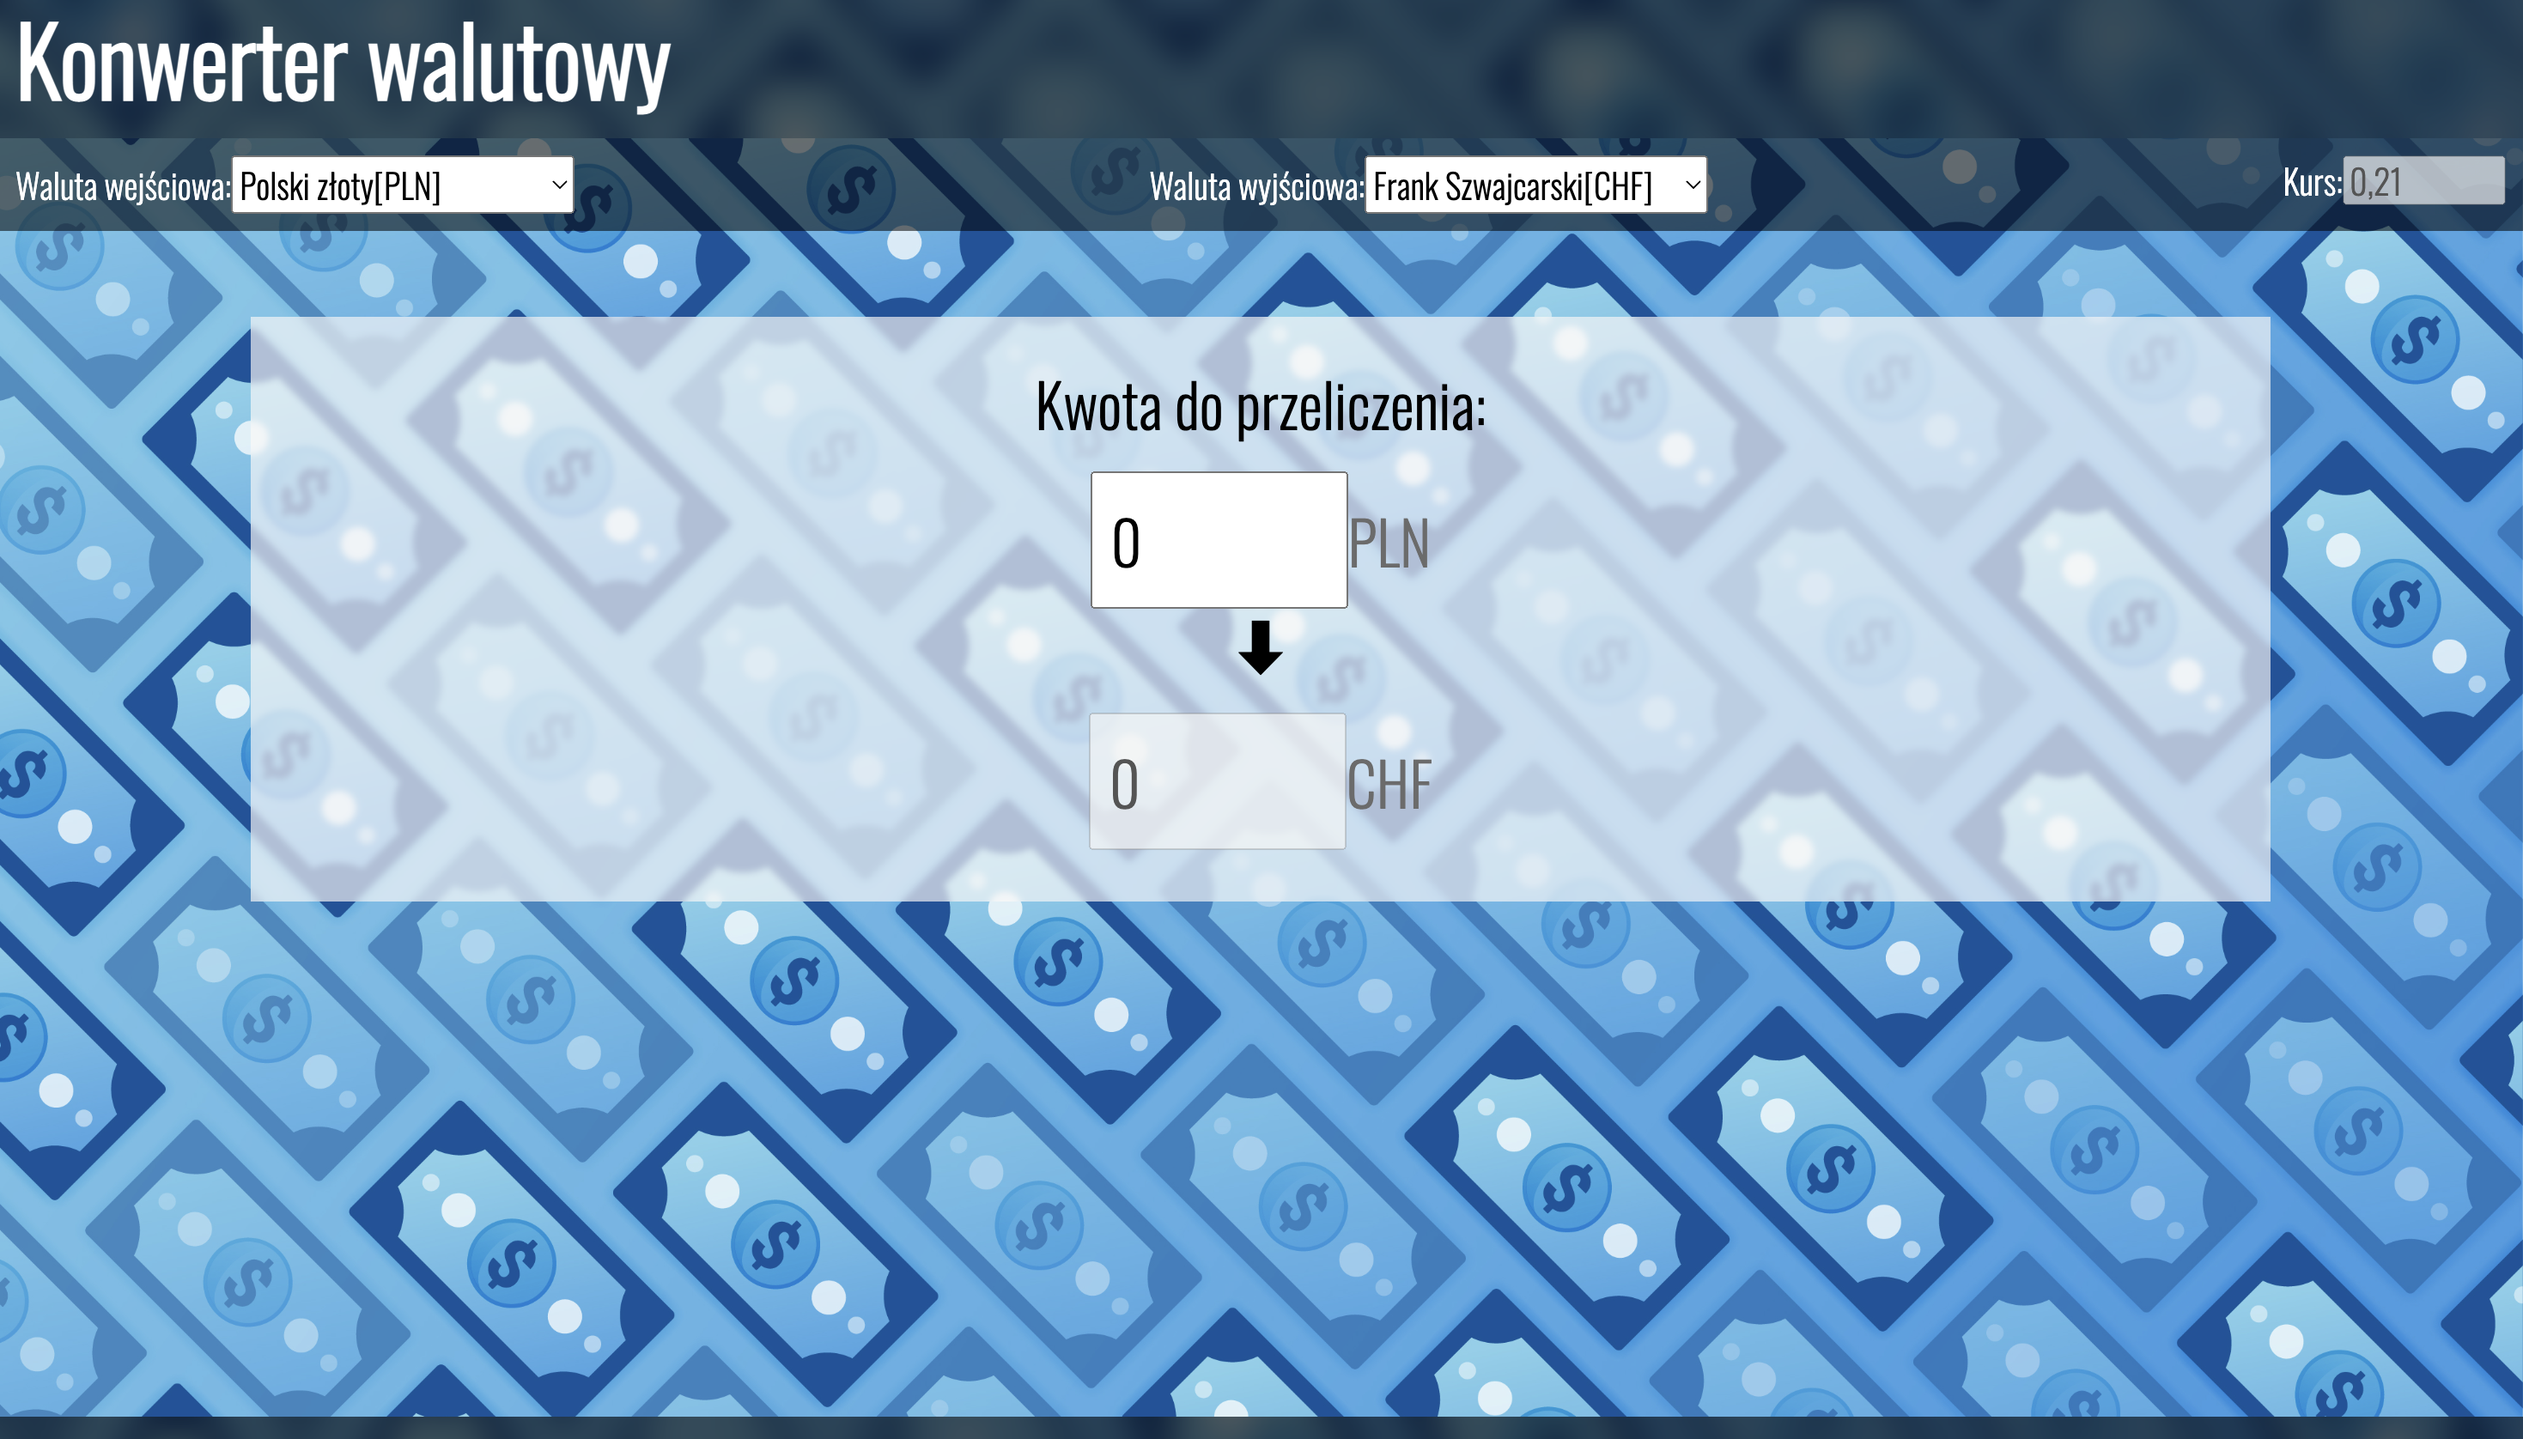
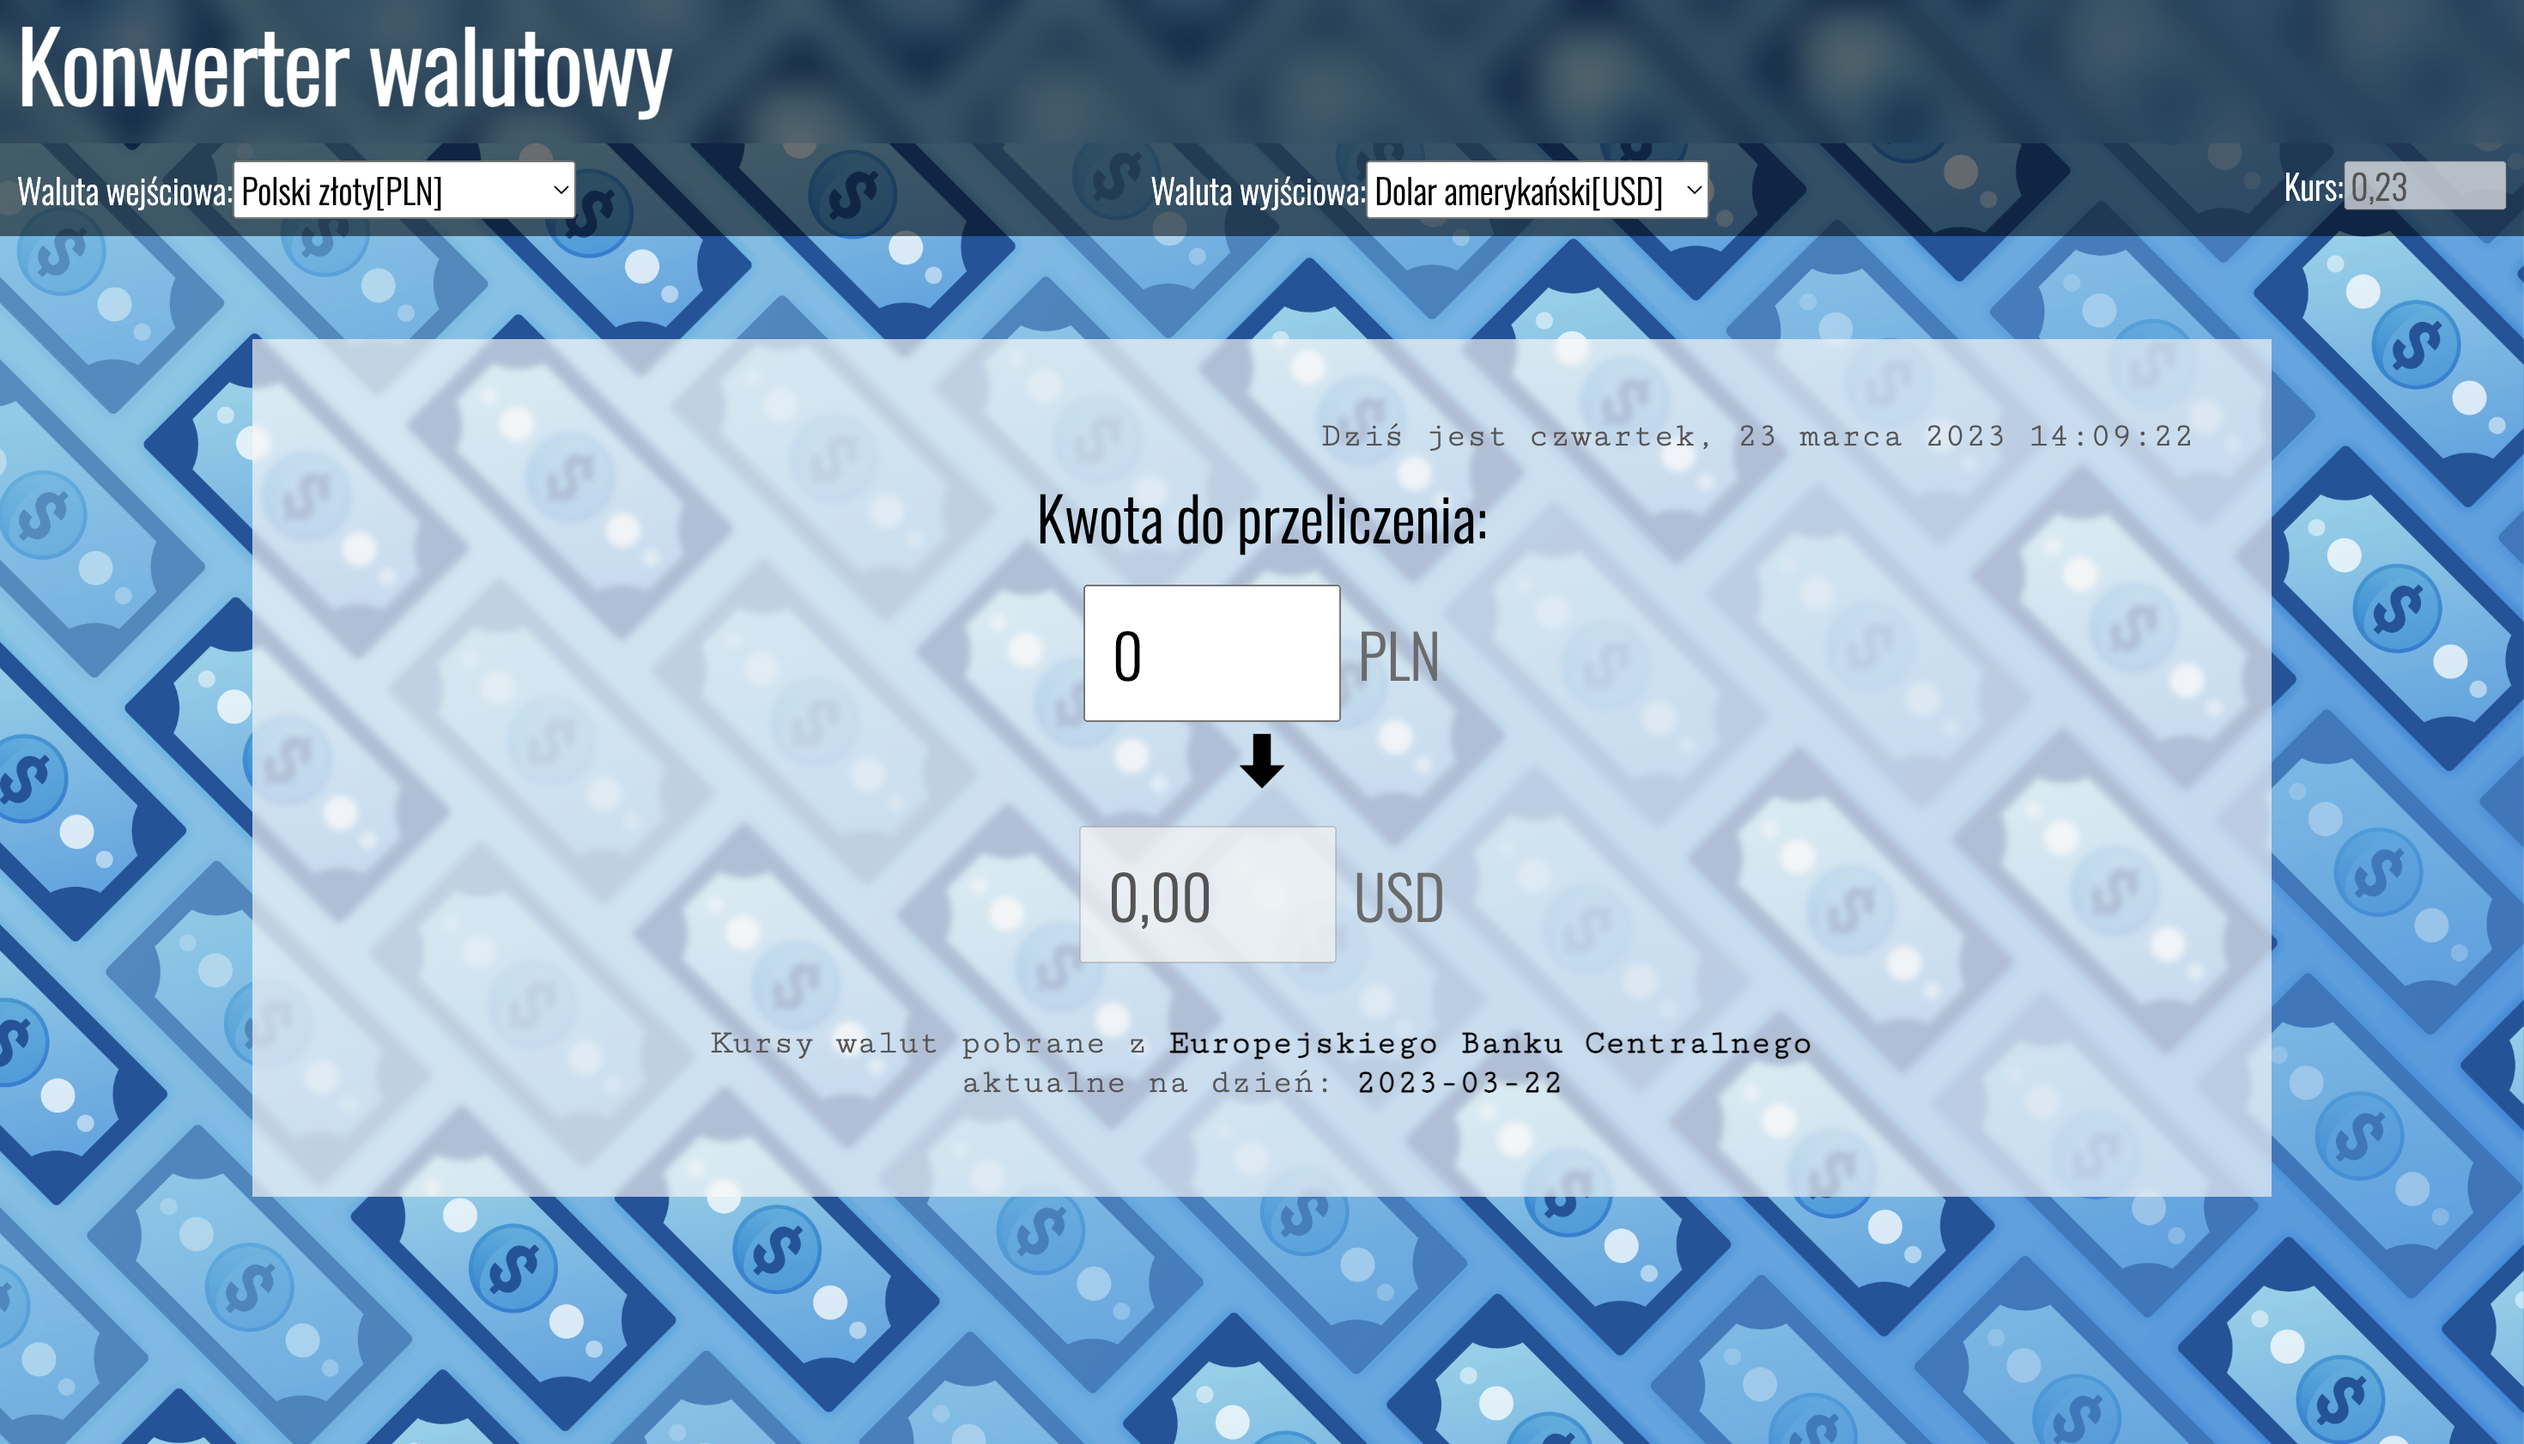
READMe updated

diff --git a/README.md b/README.md
@@ -1,6 +1,6 @@
 # Currency Converter
 
-This project is a currency converter web application built with React, using JSX syntax. The application allows users to input an amount of money and convert it to a different currency based on the currency rate entered by the user.
+This project is a currency converter web application built with React, using JSX syntax. The application allows users to input an amount of money and convert it to a different currency based on the currency rate imported from API (https://api.exchangerate.host) .
 
 ## Table of Contents
 
@@ -19,6 +19,7 @@ The following technologies were used in this project:
 - Open Graph
 - styled-components
 - own Hooks
+- API
 
 ## Usage
 
